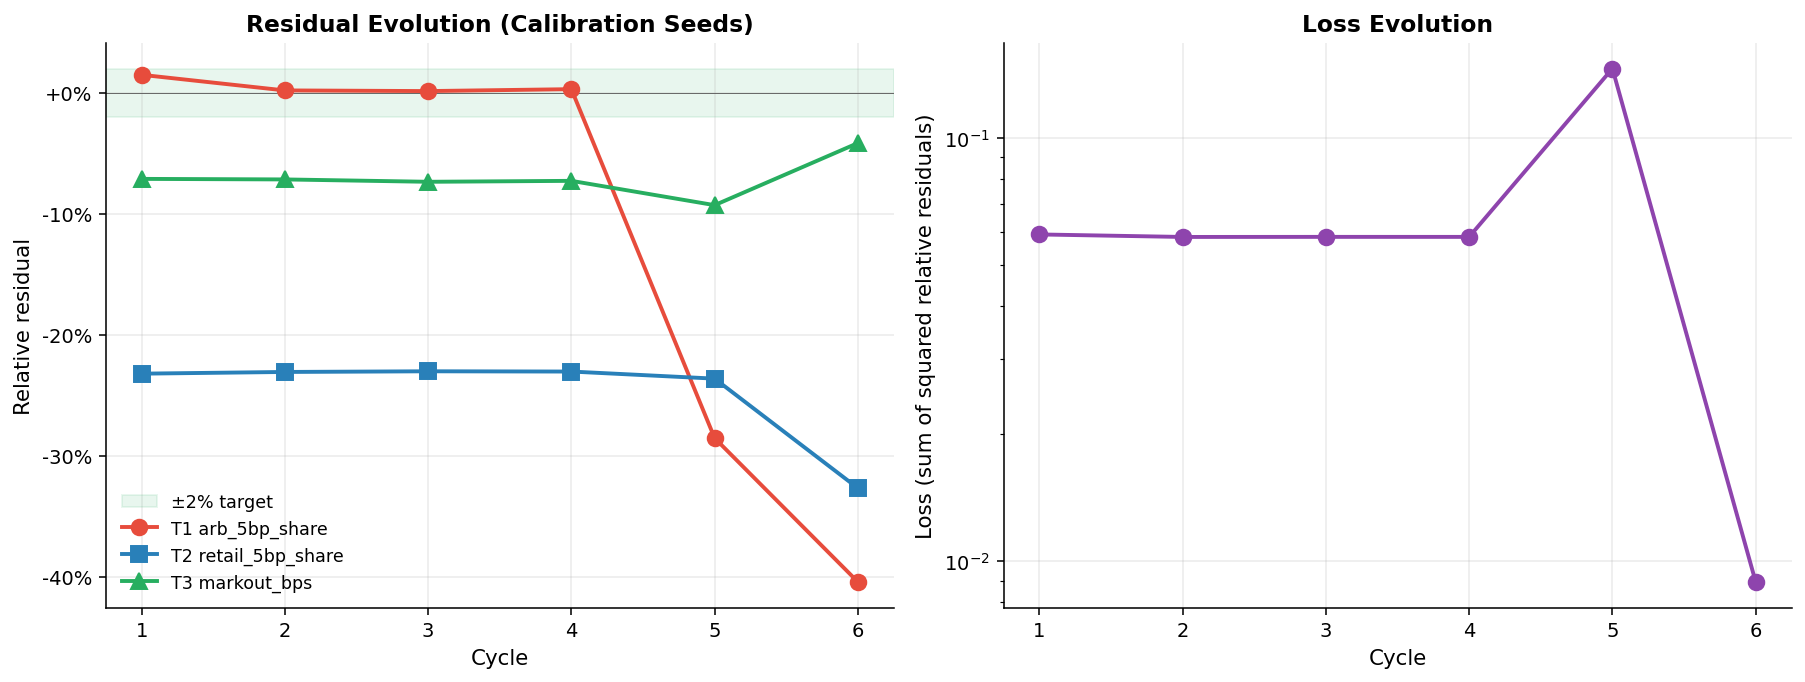
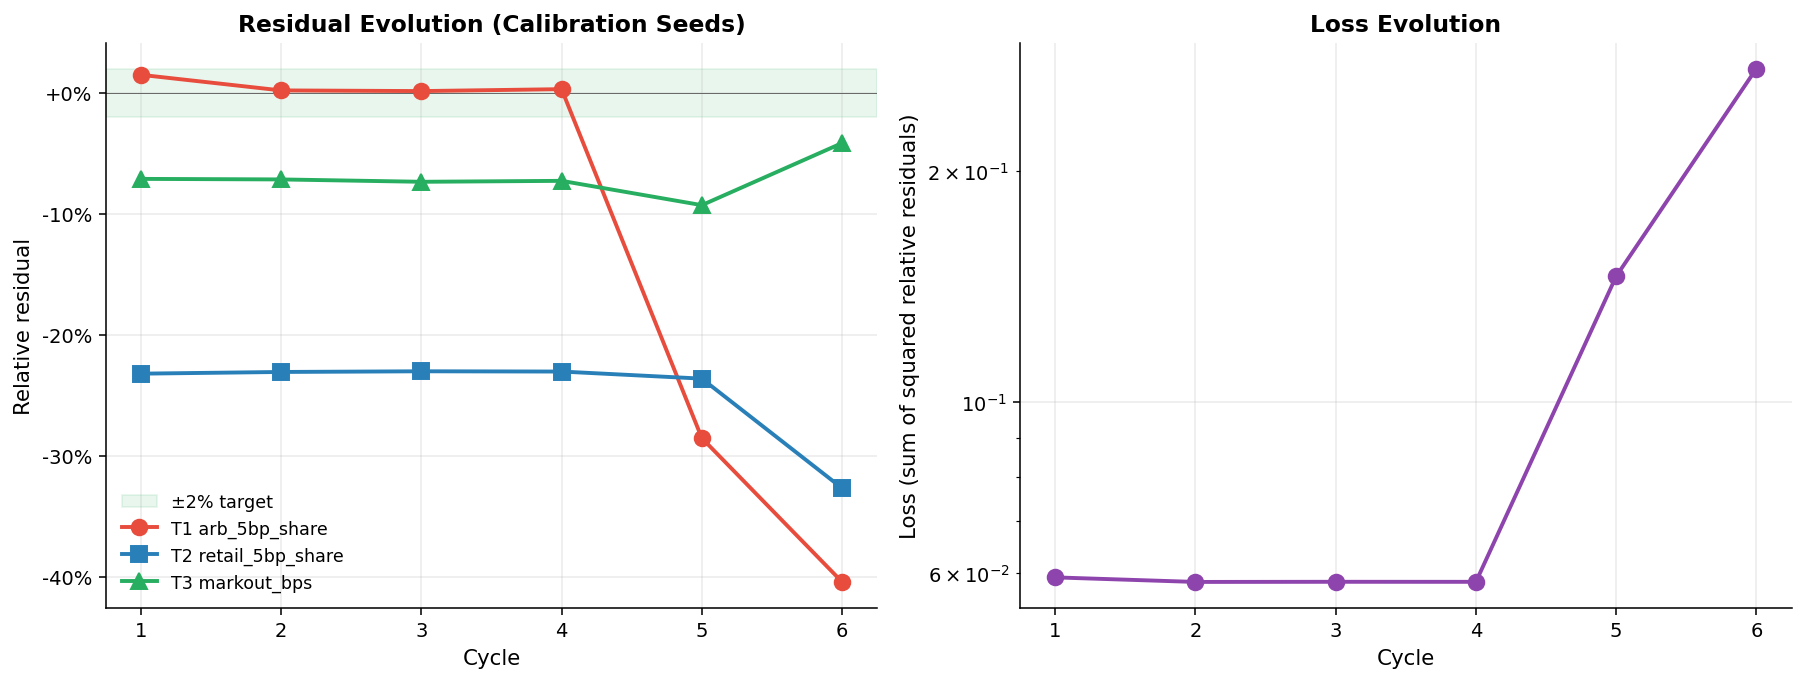
Plot calibration loss consistently across cycles
Sum the squared calibration-set residuals at every cycle so cycle 6's
DE search loss (originally reported on 3 seeds) is directly comparable
to the NM cycles' 5-seed loss. The new view makes the Pareto-floor
plateau across cycles 1-4 obvious.

diff --git a/scripts/calibration/plot_residuals.py b/scripts/calibration/plot_residuals.py
@@ -34,7 +34,14 @@ def main() -> None:
     r1 = [c["final_residuals"]["T1_arb_5bp_share"] for c in cycles]
     r2 = [c["final_residuals"]["T2_retail_5bp_share"] for c in cycles]
     r3 = [c["final_residuals"]["T3_markout_bps"] for c in cycles]
-    losses = [c["scipy_result"]["fun"] for c in cycles]
+    # Compute calibration-set loss consistently from final_residuals so cycle-6
+    # (DE search) is comparable to cycles 1-5.
+    losses = [
+        c["final_residuals"]["T1_arb_5bp_share"] ** 2
+        + c["final_residuals"]["T2_retail_5bp_share"] ** 2
+        + c["final_residuals"]["T3_markout_bps"] ** 2
+        for c in cycles
+    ]
 
     fig, axes = plt.subplots(1, 2, figsize=(13, 5))
 